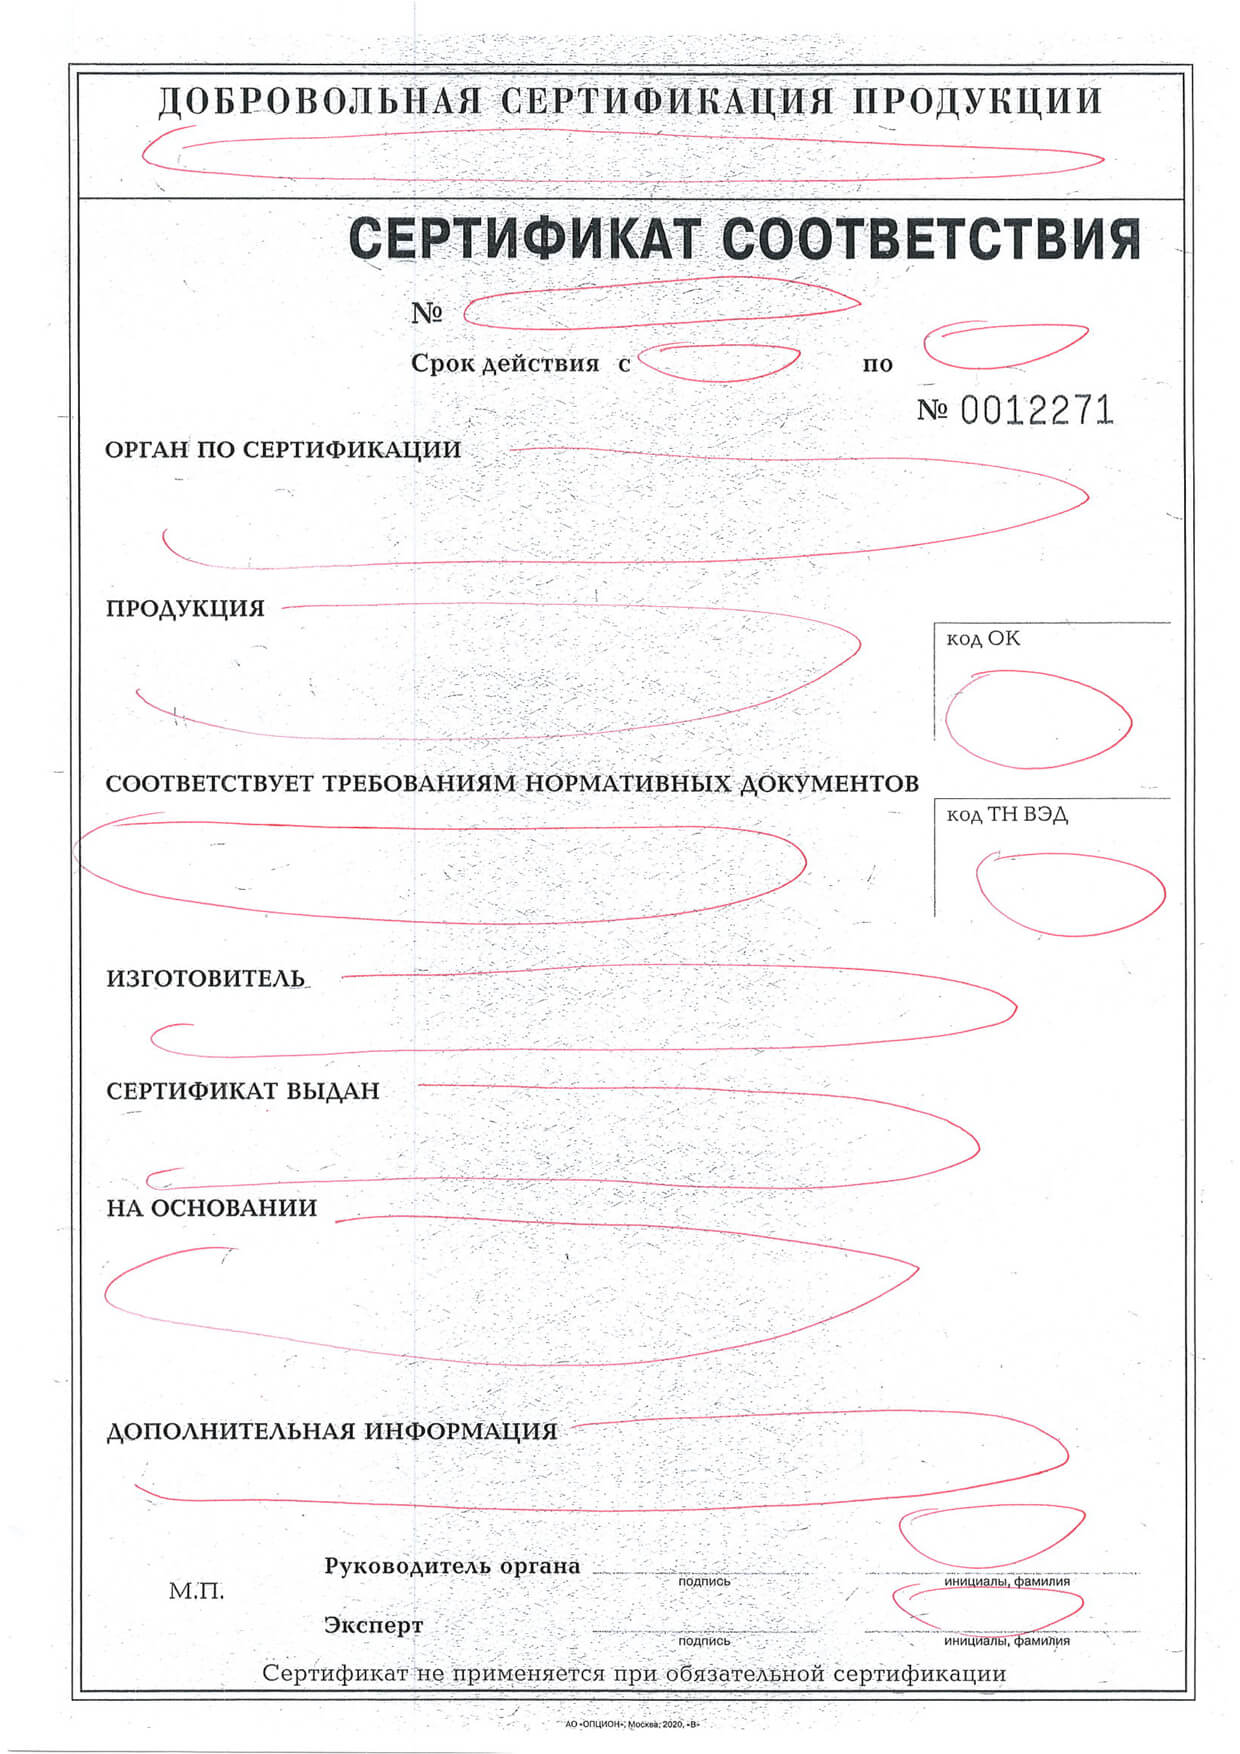
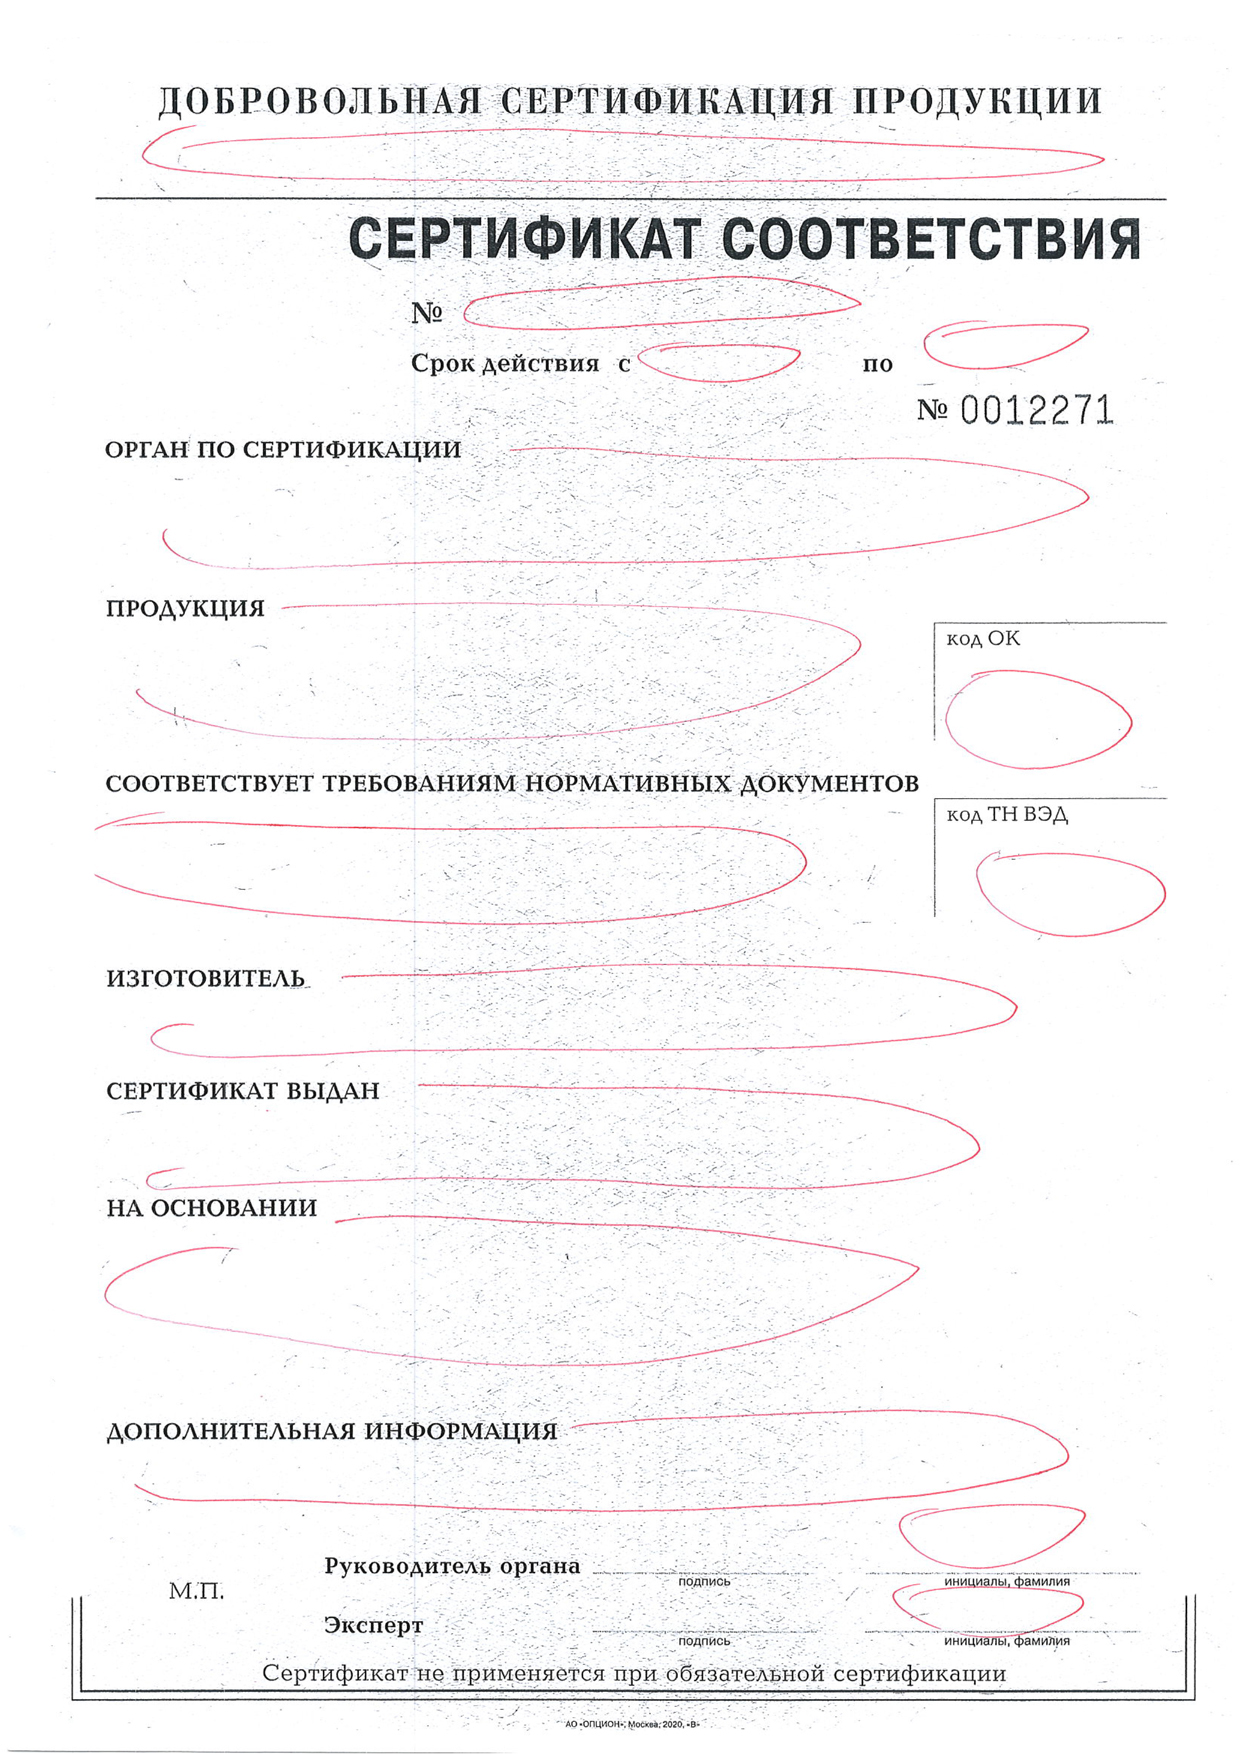
Add some styling

Changed region(s): [[0.0613, 0.0308, 0.9806, 0.8928], [0.0613, 0.4618, 0.0919, 0.5234], [0.0613, 0.0924, 0.0919, 0.1231]]

diff --git a/src/scss/modules/_cert-form.scss b/src/scss/modules/_cert-form.scss
@@ -1,0 +1,67 @@
+.cert-form {
+  // box model
+  padding: 0.5rem;
+
+  // border
+  border: 2px solid $black;
+
+  // visual
+  opacity: 0.8;
+}
+
+.cert-form__header {
+  // box model
+  padding: 2rem;
+
+  // border
+  border: 2px solid $black;
+}
+
+.cert-form__main {
+  // box model
+  padding: 2rem;
+
+  // border
+  border: 2px solid $black;
+}
+
+.cert-form__main-label {
+  // box model
+  display: block;
+
+  // typography
+  text-align: center;
+  text-transform: uppercase;
+}
+
+.cert-form__top {
+  // box model
+  padding-top: 4rem;
+  padding-left: 19rem;
+}
+
+.cert-form__input {
+  // box model
+  display: block;
+}
+
+.cert-form__input {
+  // box model
+  width: 100%;
+}
+
+.cert-form__input--inline {
+  // box model
+  display: inline-block;
+  width: initial;
+}
+
+.cert-form__label {
+  // typography
+  font-size: 1.75rem;
+}
+
+.cert-form__label--caps {
+  // typography
+  text-transform: uppercase;
+}

diff --git a/src/scss/base/_global.scss b/src/scss/base/_global.scss
@@ -14,6 +14,9 @@ body {
   width: 1240px;
   height: 1754px;
   margin: 0 auto;
+  padding-top: 4rem;
+  padding-left: 4rem;
+  padding-right: 3rem;
 
   // visual
   background-color: $body-background;

diff --git a/src/scss/base/_vars.scss b/src/scss/base/_vars.scss
@@ -1,3 +1,6 @@
 // colors
 $html-background: #403e41;
 $body-background: #ffffff;
+
+$black:           #222222;
+$black:           red;

diff --git a/src/scss/style.scss b/src/scss/style.scss
@@ -8,3 +8,4 @@
 // fonts
 
 // modules
+@import './modules/cert-form';
